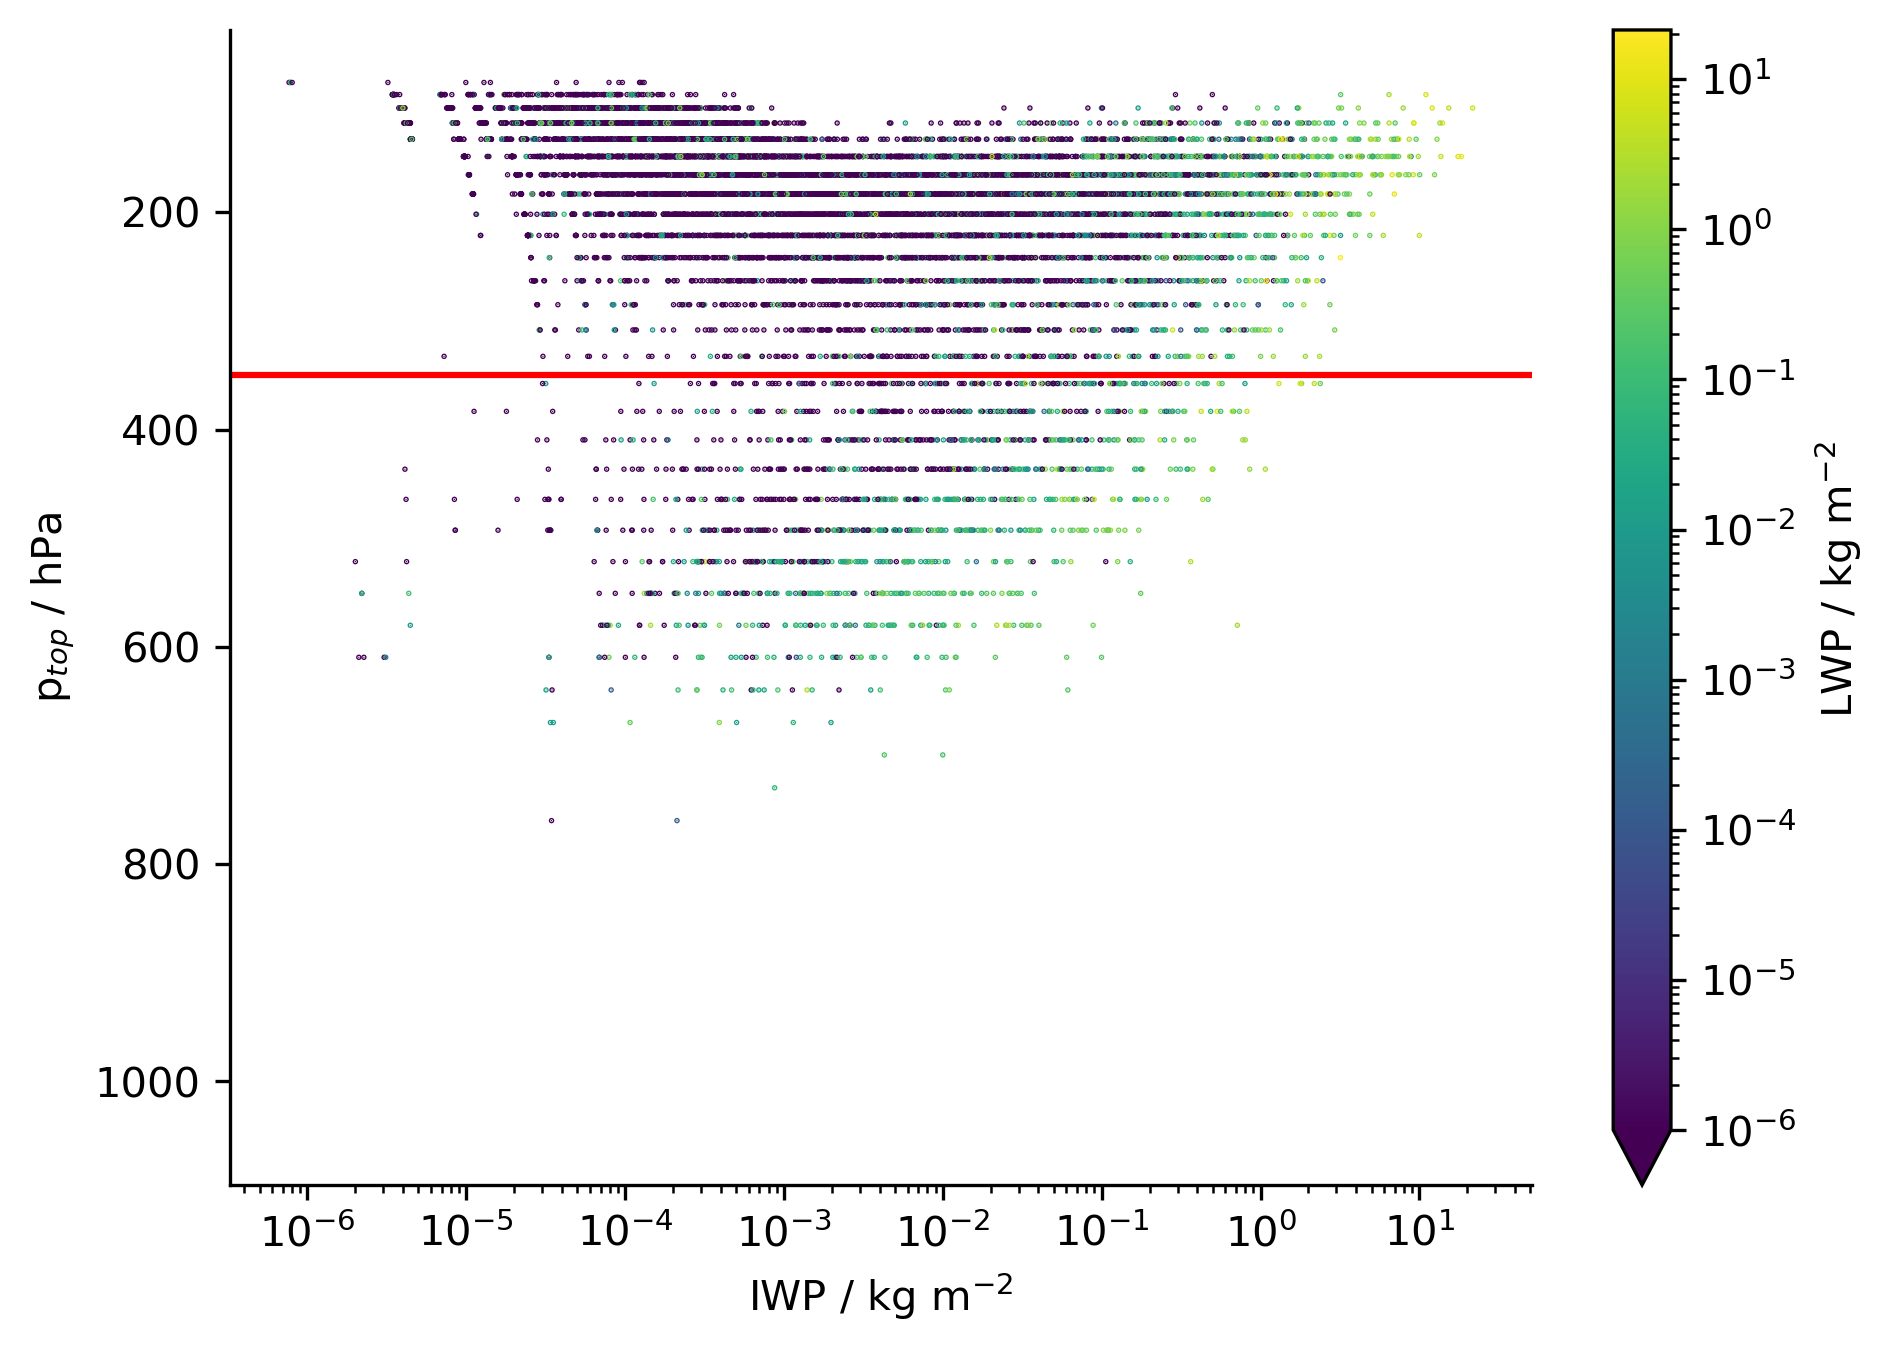
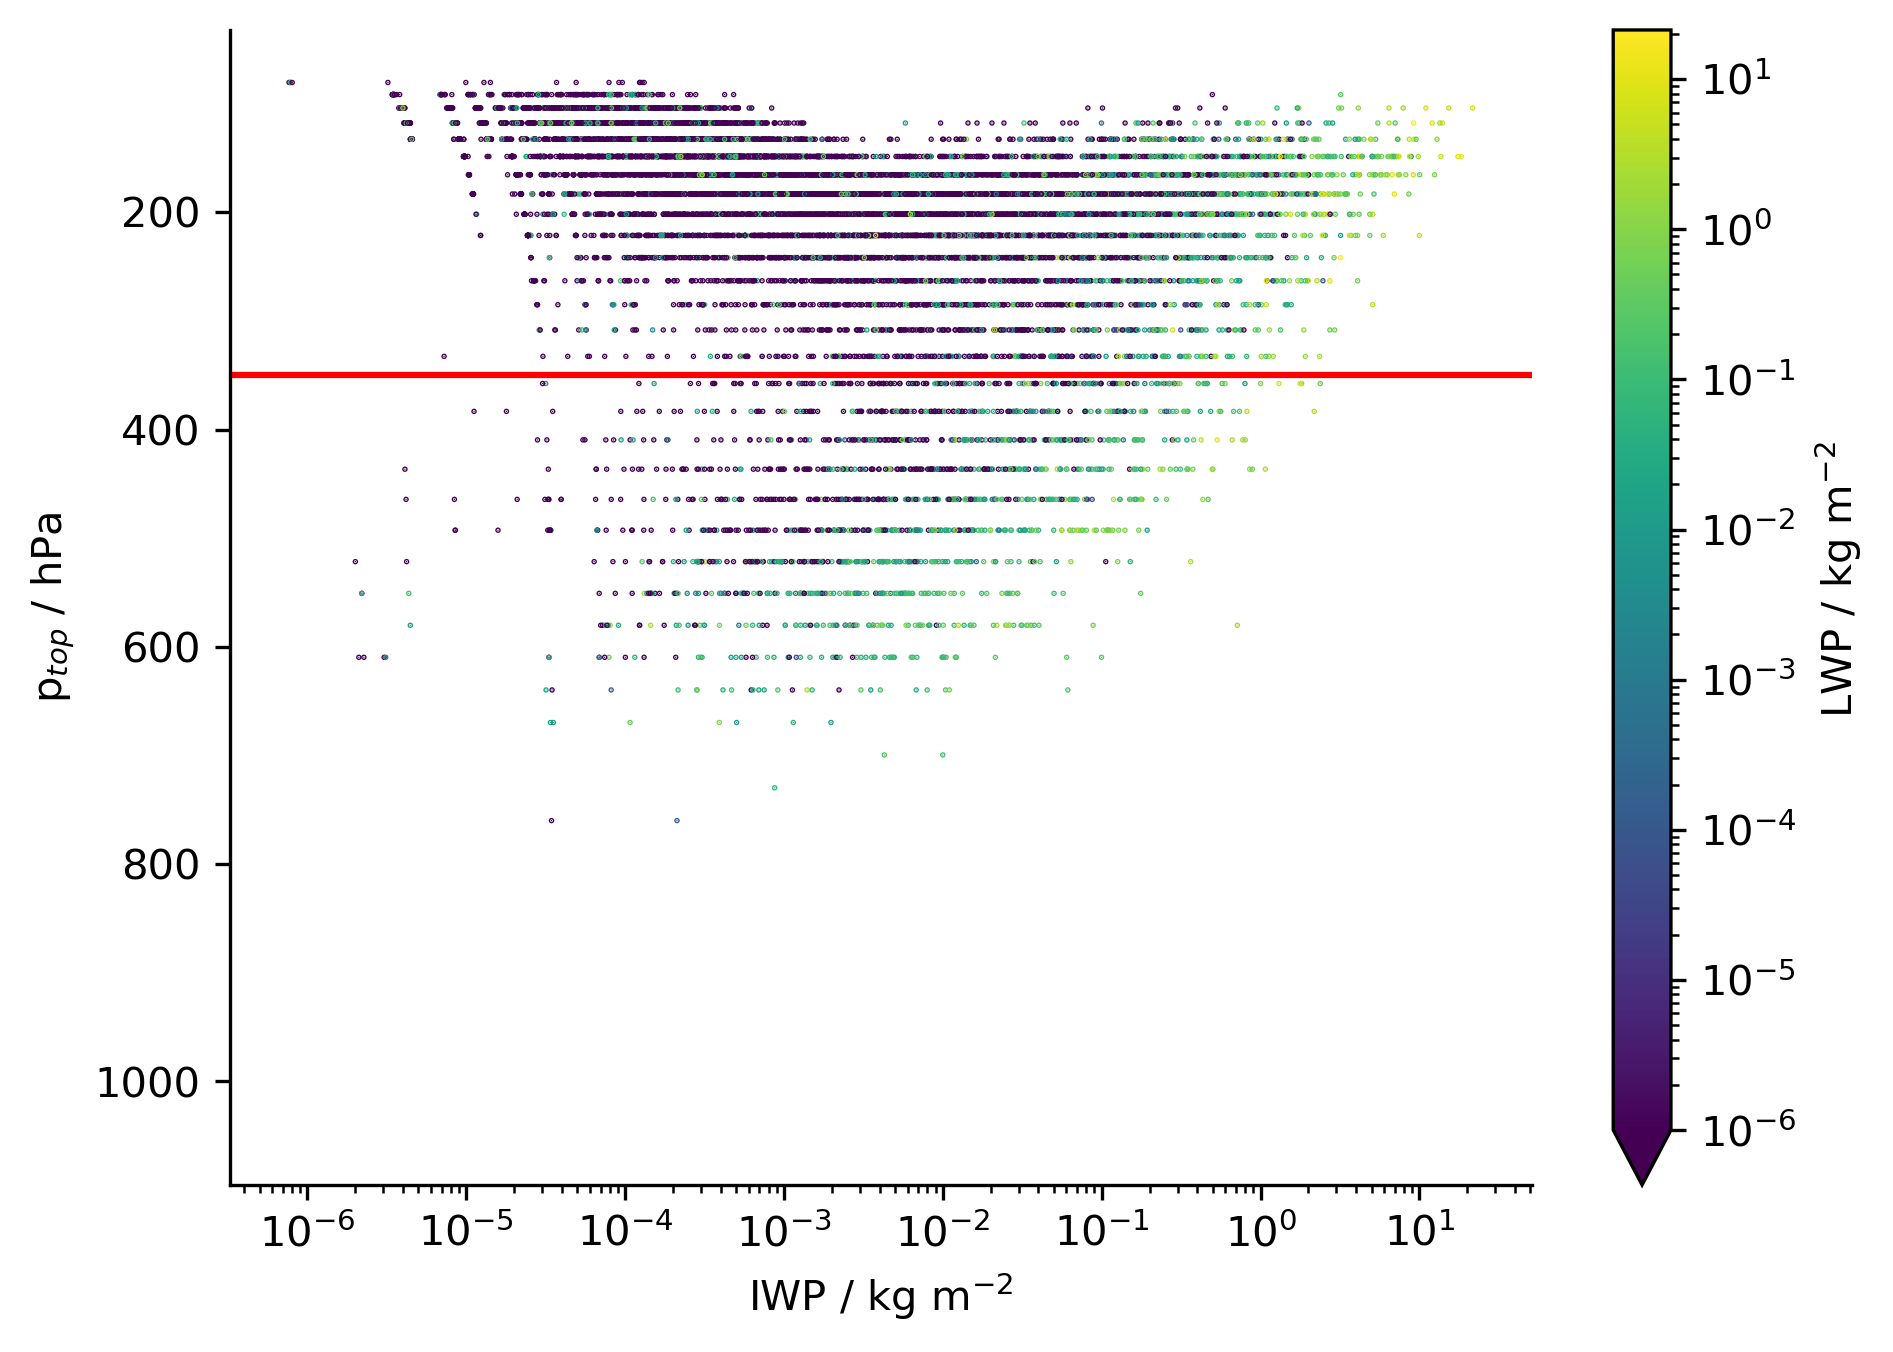
IWP Threshold for high cloud top pressure changed to 2e-3

diff --git a/src/process_icon_arts/calculate_emissivity_noice.py b/src/process_icon_arts/calculate_emissivity_noice.py
@@ -18,10 +18,10 @@ lw_vars = xr.Dataset()
 mean_lw_vars = pd.DataFrame()
 
 # %% calculate high cloud temperature from vertically integrated IWP
-IWC_emission = 1e-3  # IWP where high clouds become opaque
+IWP_emission = 2e-3  # IWP where high clouds become opaque
 
 p_top_idx_thin = (atms["IWC"] + atms['snow'] + atms['graupel']).argmax("pressure")
-p_top_bool_thick = atms["IWC_cumsum"] > IWC_emission
+p_top_bool_thick = atms["IWC_cumsum"] > IWP_emission
 # finds the first index along pressure where the condition is false,
 p_top_idx_thick = p_top_bool_thick.argmin("pressure") - 1
 p_top_idx = xr.where(p_top_idx_thick > p_top_idx_thin, p_top_idx_thick, p_top_idx_thin)
@@ -56,12 +56,6 @@ ax.set_ylabel("p$_{top}$ / hPa")
 ax.spines["right"].set_visible(False)
 ax.spines["top"].set_visible(False)
 fig.savefig("plots/p_top.png", dpi=300, bbox_inches="tight")
-
-# %% look where low p_tops are coming from 
-mask_low_p_top = p_top == atms.pressure[0]
-profiles = atms.where(mask_low_p_top).sel(lat=slice(-30, 30))
-profiles['graupel'].sum('pressure').max(['lat', 'lon'])
-# they are caused by profiles with snow and graupel but no cloud ice 
 
 # %% calculate high cloud emissivity
 sigma = 5.67e-8  # W m-2 K-4

diff --git a/src/plot/test_full_model.py b/src/plot/test_full_model.py
@@ -77,7 +77,7 @@ fig, axes = plot_model_output(
 
 fig.suptitle("Prescribed LC Quantities", fontsize=12)
 fig.tight_layout()
-fig.savefig("plots/model_tests/prescribed_lc_params_all_ice.png", dpi=300)
+#fig.savefig("plots/model_tests/prescribed_lc_params_all_ice.png", dpi=300)
 
  # %% run model for all profiles with cloud tops above 350 hPa and no low clouds below the high clouds 
 mask = lw_vars["mask_height"] & lw_vars['mask_hc_no_lc']
@@ -112,7 +112,7 @@ fig, axes = plot_model_output(
 )
 fig.suptitle("No LC Below HC", fontsize=12)
 fig.tight_layout()
-fig.savefig("plots/model_tests/hc_no_lc.png", dpi=300)
+#fig.savefig("plots/model_tests/hc_no_lc.png", dpi=300)
 
 # %% run model for all profiles with cloud tops above 350 hPa and low clouds below the high clouds
 mask = lw_vars["mask_height"] & ~lw_vars['mask_hc_no_lc']
